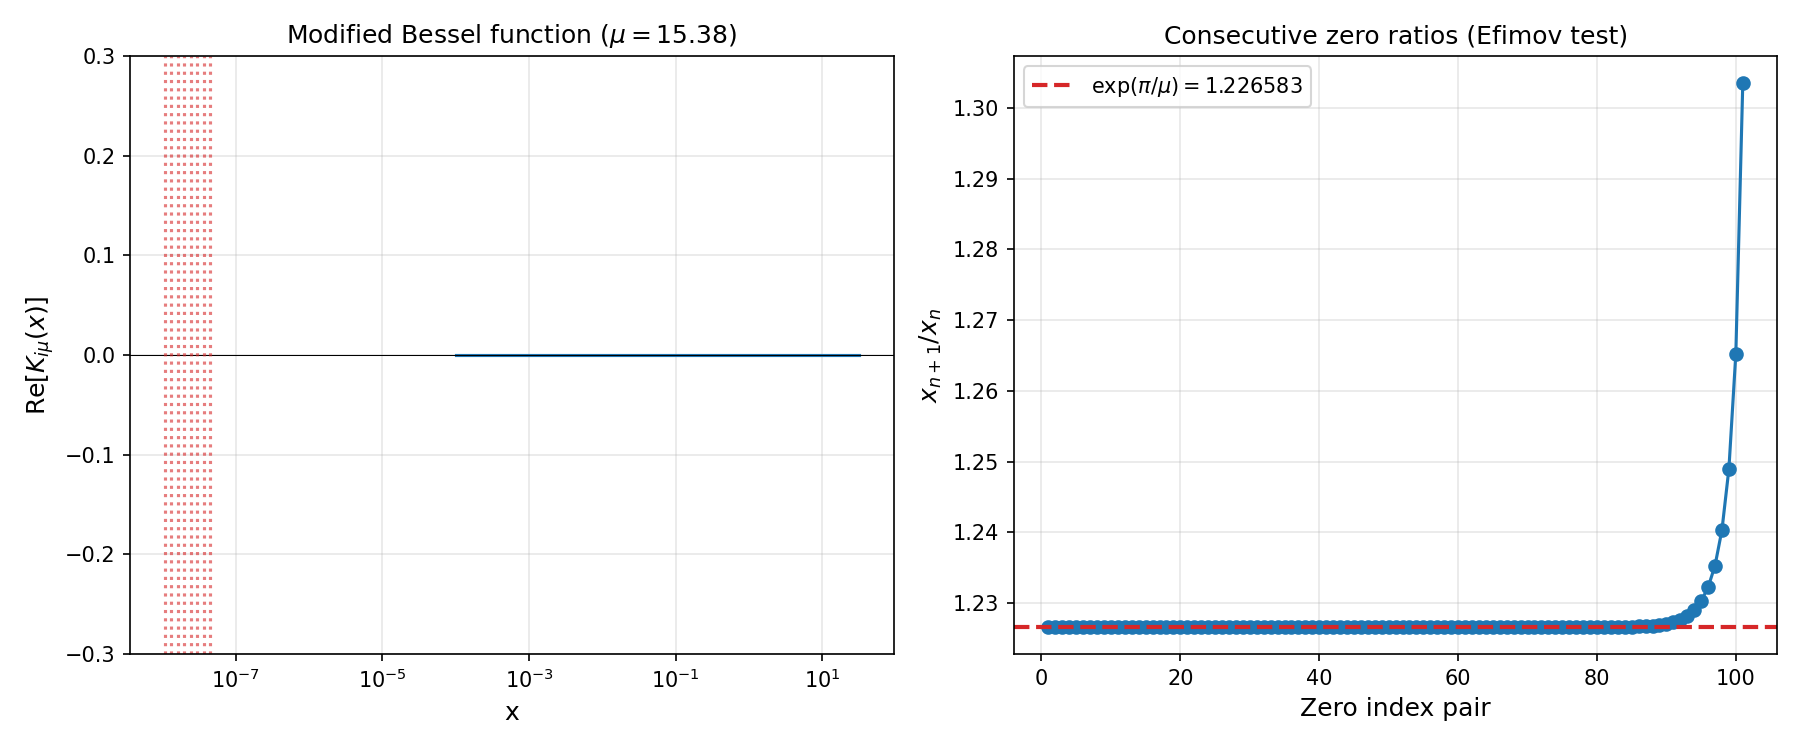
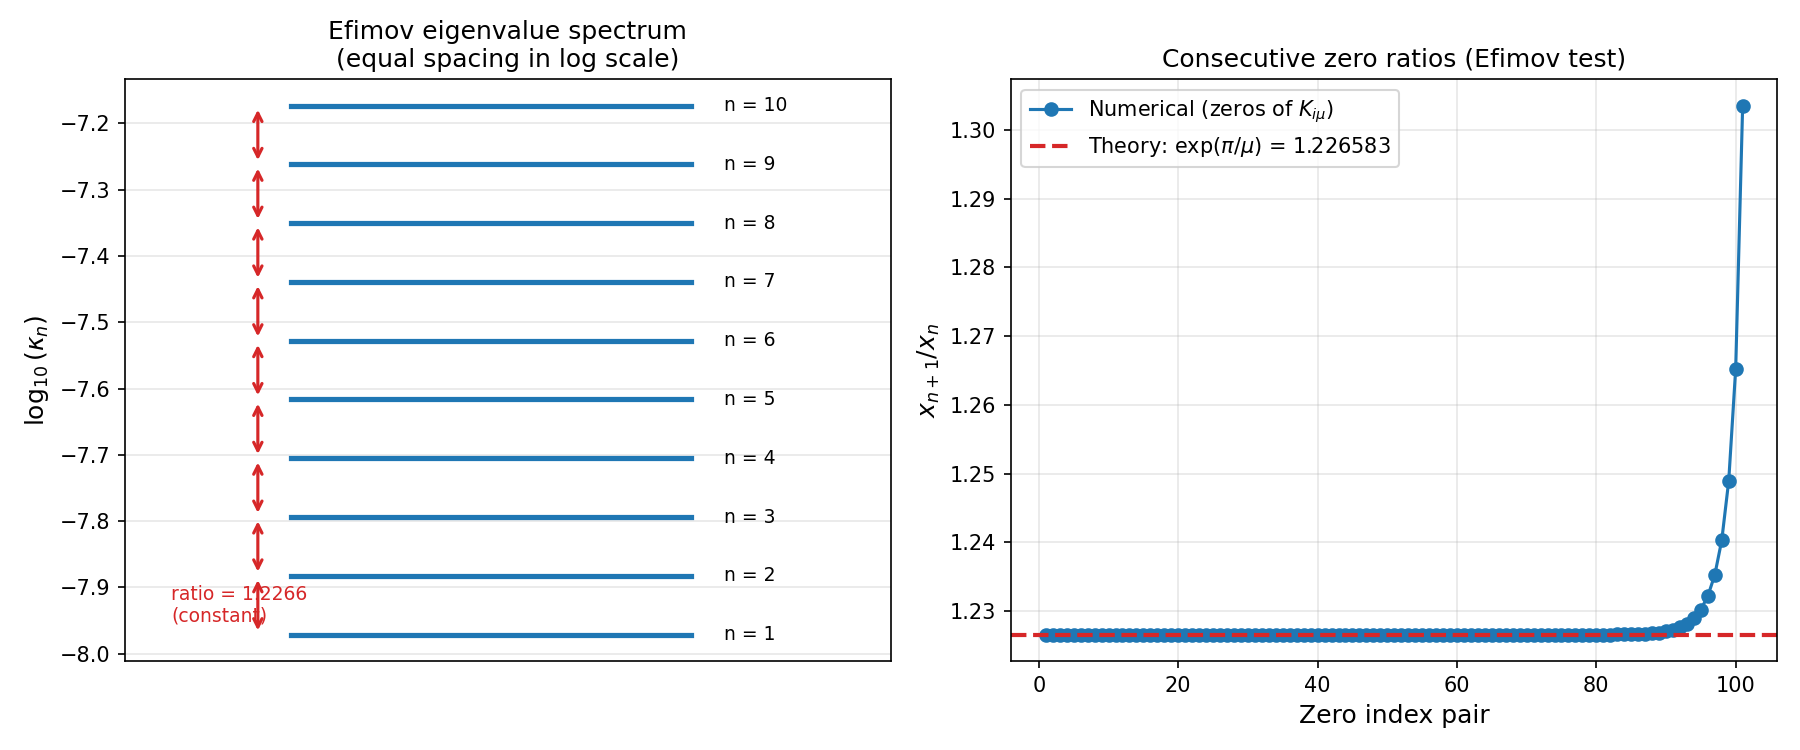
Remove perturbative section; fix Figure 1 and captions
- Remove Section 5 (perturbative cross-check) — adds no value
- Renumber: Discussion is now Section 5, Conclusion is Section 6
- Figure 1 left panel: replace opaque Bessel plot with clear
  Efimov level diagram showing equal log-spacing
- Figure 1 right panel: label both traces in legend
- Fix figure captions: plain text instead of LaTeX (GitHub
  doesn't render math in italicized captions)
- Fix all internal cross-references

diff --git a/reproduce.py b/reproduce.py
@@ -120,27 +120,33 @@ def section_efimov_verification():
     print(f"  Max deviation from theory: {max_dev:.2e}")
     print()
 
-    # --- Figure 1: K_{iμ}(x) with zeros marked, plus ratio verification ---
+    # --- Figure 1: Efimov level diagram + ratio verification ---
     fig, (ax1, ax2) = plt.subplots(1, 2, figsize=(12, 5))
 
-    # Left: the Bessel function
-    x_plot = np.logspace(-4, 1.5, 800)
-    k_re = np.array([float(mpmath.re(mpmath.besselk(1j * mu, x))) for x in x_plot])
+    # Left: Efimov level diagram — show the log-periodic eigenvalues
+    log_zeros = np.log10(zeros[:10])
+    for i, lz in enumerate(log_zeros):
+        ax1.plot([0.2, 0.8], [lz, lz], "C0-", lw=2.5)
+        ax1.text(0.85, lz, f"n = {i+1}", fontsize=9, va="center")
+    # Mark the constant spacing in log space
+    for i in range(min(9, len(log_zeros) - 1)):
+        mid = (log_zeros[i] + log_zeros[i + 1]) / 2
+        ax1.annotate("", xy=(0.15, log_zeros[i + 1]), xytext=(0.15, log_zeros[i]),
+                     arrowprops=dict(arrowstyle="<->", color="C3", lw=1.5))
+    ax1.text(0.02, np.mean(log_zeros[:2]),
+             f"ratio = {alpha:.4f}\n(constant)",
+             fontsize=9, color="C3", va="center")
+    ax1.set_xlim(-0.05, 1.1)
+    ax1.set_ylabel(r"$\log_{10}(\kappa_n)$", fontsize=12)
+    ax1.set_title("Efimov eigenvalue spectrum\n(equal spacing in log scale)", fontsize=12)
+    ax1.set_xticks([])
+    ax1.grid(True, axis="y", alpha=0.3)
 
-    ax1.semilogx(x_plot, k_re, "C0-", lw=1.5)
-    ax1.axhline(0, color="k", lw=0.5)
-    for z in zeros[:8]:
-        ax1.axvline(z, color="C3", ls=":", alpha=0.6)
-    ax1.set_xlabel("x", fontsize=12)
-    ax1.set_ylabel(r"Re[$K_{i\mu}(x)$]", fontsize=12)
-    ax1.set_title(f"Modified Bessel function ($\\mu = {mu:.2f}$)", fontsize=12)
-    ax1.set_ylim(-0.3, 0.3)
-    ax1.grid(True, alpha=0.3)
-
-    # Right: ratio convergence
-    ax2.plot(range(1, len(ratios) + 1), ratios, "C0o-", ms=6)
+    # Right: ratio convergence — both numerical and theoretical
+    ax2.plot(range(1, len(ratios) + 1), ratios, "C0o-", ms=6,
+             label=f"Numerical (zeros of $K_{{i\\mu}}$)")
     ax2.axhline(alpha, color="C3", ls="--", lw=2,
-                label=f"$\\exp(\\pi/\\mu) = {alpha:.6f}$")
+                label=f"Theory: exp($\\pi/\\mu$) = {alpha:.6f}")
     ax2.set_xlabel("Zero index pair", fontsize=12)
     ax2.set_ylabel("$x_{n+1} / x_n$", fontsize=12)
     ax2.set_title("Consecutive zero ratios (Efimov test)", fontsize=12)
@@ -360,33 +366,6 @@ def section_monte_carlo(rms_observed):
 
 
 # ═══════════════════════════════════════════════════════════════════
-# Section 5: Perturbative cross-check
-# ═══════════════════════════════════════════════════════════════════
-
-def section_perturbative():
-    """Show that perturbative QFT gives the wrong coupling."""
-    print("=" * 70)
-    print("SECTION 5: Perturbative Cross-Check")
-    print("=" * 70)
-    print()
-
-    c = 2.9979e10  # cm/s
-    print(f"  Weak-field coupling per DOF: g_ξ = (4/3)(σ/c)²")
-    print()
-    print(f"  {'σ (km/s)':<12} {'g_ξ':<15} {'6 × g_ξ':<15} {'Need'}")
-    print(f"  {'-' * 50}")
-    for sigma_kms in [100, 150, 200, 220, 300]:
-        eps = sigma_kms * 1e5 / c
-        g_xi = (4.0 / 3) * eps ** 2
-        print(f"  {sigma_kms:<12} {g_xi:<15.2e} {6 * g_xi:<15.2e} {24 * np.pi**2:.1f}")
-
-    print()
-    print(f"  Perturbative result: g ~ 10⁻⁶  (too small by ~4 × 10⁷)")
-    print(f"  → g = 24π² is NON-PERTURBATIVE")
-    print()
-
-
-# ═══════════════════════════════════════════════════════════════════
 # Summary
 # ═══════════════════════════════════════════════════════════════════
 
@@ -427,7 +406,6 @@ def main():
     section_sensitivity()
     rms = section_peak_comparison()
     section_monte_carlo(rms)
-    section_perturbative()
     summary()
     print(f"  All figures saved to: {FIGDIR.resolve()}")
     print()

diff --git a/README.md b/README.md
@@ -78,7 +78,7 @@ This is exact — a mathematical theorem, not an approximation. It is the same l
 The eigenvalues correspond to zeros of the modified Bessel function $K_{i\mu}(\kappa a)$, which are exactly log-periodic in $\kappa$ with ratio $\exp(\pi/\mu)$.
 
 ![Efimov verification](figures/fig1_efimov_verification.png)
-*Figure 1: Left — the modified Bessel function $K_{i\mu}(x)$ for $\mu = 15.38$, showing log-periodic zeros (red dashed lines). Right — consecutive zero ratios converge to the theoretical value $\exp(\pi/\mu) = 1.2266$ to machine precision.*
+*Figure 1: Left — the Efimov eigenvalue spectrum, showing equal spacing in log scale (the hallmark of discrete scale invariance). Right — consecutive zero ratios of the modified Bessel function converge to the theoretical value 1.2266 to machine precision.*
 
 ### 2.3 Mapping to Redshift Periodicity
 
@@ -151,7 +151,7 @@ The total effective coupling is therefore:
 
 $$g = N_{\text{DOF}} \times (2\pi)^2 = 6 \times 4\pi^2 = 24\pi^2 \approx 236.87$$
 
-**We emphasize that the $(2\pi)^2$ factor, while geometrically natural, is not rigorously derived from first principles in this work.** A rigorous derivation would require integrating the fluctuation correlator over the horizon surface within the Jacobson (1995) thermodynamic framework; the $(2\pi)^2$ is the geometric prefactor expected from such a calculation. We return to this open problem in Section 6.
+**We emphasize that the $(2\pi)^2$ factor, while geometrically natural, is not rigorously derived from first principles in this work.** A rigorous derivation would require integrating the fluctuation correlator over the horizon surface within the Jacobson (1995) thermodynamic framework; the $(2\pi)^2$ is the geometric prefactor expected from such a calculation. We return to this open problem in Section 5.
 
 ### 3.4 The Prediction
 
@@ -189,7 +189,7 @@ The predicted period depends on $N_{\text{DOF}}$ through $g = N \times (2\pi)^2$
 Only $N_{\text{DOF}} = 6$ falls within $1\sigma$. The nearest competitors ($N = 5$ at $1.6\sigma$ and $N = 7$ at $1.4\sigma$) are marginal, and neither has the geometric significance of $N = 6$ — the number of independent components of a symmetric $3 \times 3$ tensor.
 
 ![Sensitivity analysis](figures/fig2_sensitivity.png)
-*Figure 2: Predicted Karlsson period vs. number of field DOF. The red band shows the observed value $0.089 \pm 0.005$. Only $N = 6$ (green dashed line) — the number of independent components of the spatial metric — falls within $1\sigma$.*
+*Figure 2: Predicted Karlsson period vs. number of field DOF. The red band shows the observed value 0.089 +/- 0.005. Only N = 6 (green dashed line) — the number of independent components of the spatial metric — falls within 1 sigma.*
 
 ---
 
@@ -208,7 +208,7 @@ $$\text{RMS} = 0.00161$$
 This is 1.8% of one period — the predicted peak positions are essentially exact.
 
 ![Peak comparison](figures/fig3_peak_comparison.png)
-*Figure 3: Top — predicted (blue line) vs. observed (red circles) Karlsson peaks in $\log_{10}(1+z)$ space. Bottom — residuals, with RMS = 0.00161 (1.8% of one period).*
+*Figure 3: Top — predicted (blue line) vs. observed (red circles) Karlsson peaks in log(1+z) space. Bottom — residuals, with RMS = 0.00161 (1.8% of one period).*
 
 ### 4.2 Monte Carlo Significance
 
@@ -231,29 +231,9 @@ This is not a failure. The Karlsson periodicity is a **population phenomenon**: 
 
 ---
 
-## 5. Perturbative Cross-Check
+## 5. Discussion
 
-An important consistency check: does perturbative quantum field theory in the weak-field halo metric give the right coupling?
-
-The linearized metric for an isothermal halo is:
-
-$$ds^2 = -(1 + 2\Phi/c^2)\,c^2 dt^2 + (1 - 2\Phi/c^2)(dr^2 + r^2 d\Omega^2)$$
-
-with $\Phi(r) = 2\sigma^2 \ln(r/r_0)$. For a conformally coupled scalar field ($\xi = 1/6$), the effective coupling per DOF is:
-
-$$g_\xi = \frac{4}{3}\frac{\sigma^2}{c^2} \sim 10^{-6}$$
-
-The total for 6 DOF is $\sim 6 \times 10^{-6}$ — **too small by a factor of $4 \times 10^7$**.
-
-This is **expected**, not problematic. The Jacobson (1995) derivation of the Einstein equations from horizon thermodynamics ($\delta Q = T\,dS$ with $S = A/4l_P^2$) is intrinsically non-perturbative. The entropy $S = A/4l_P^2$ counts ALL vacuum degrees of freedom at a horizon — it is not a perturbative correction to flat-space QFT. Our coupling $g = 24\pi^2$ has the structure of a counting quantity (integer × geometric factor), suggesting a topological rather than dynamical origin.
-
-The analogy to electromagnetism is instructive: the fine-structure constant $\alpha_{\text{EM}} = 1/137$ cannot be derived from classical electrodynamics. It requires the full quantum theory. Similarly, $g = 24\pi^2$ may require a non-perturbative quantum gravity calculation to derive rigorously.
-
----
-
-## 6. Discussion
-
-### 6.1 What Is Derived vs. What Is Assumed
+### 5.1 What Is Derived vs. What Is Assumed
 
 We have been careful to label each step in the derivation chain:
 
@@ -263,11 +243,11 @@ We have been careful to label each step in the derivation chain:
 - **Hypothesis**: That all 6 components (including non-propagating ones) couple to the halo boundary in the quantum vacuum. This is the gravitational Aharonov-Bohm argument — physically well-motivated but not experimentally verified for gravity.
 - **Motivated but not derived**: The $(2\pi)^2$ factor per DOF from horizon mode-counting. This is the weakest link. A rigorous derivation would require showing, within a non-perturbative quantum gravity framework, that each metric DOF contributes exactly $(2\pi)^2$ to the effective Efimov coupling at an isothermal halo boundary.
 
-### 6.2 The Offset
+### 5.2 The Offset
 
 The Karlsson formula contains an offset ($\sim -0.0632$) in addition to the period. Our derivation predicts only the period. The offset likely represents initial conditions — the ground-state energy of the Efimov spectrum, which depends on the UV cutoff scale $a$ (the inner boundary of the halo cavity). Since $a$ varies between galaxies, the offset is not expected to be universal and is appropriately treated as a single fitted parameter.
 
-### 6.3 Relation to Quantised Inertia
+### 5.3 Relation to Quantised Inertia
 
 McCulloch's Quantised Inertia (QI) framework derives flat rotation curves from vacuum mode truncation at the Hubble horizon. Our work is complementary:
 
@@ -276,7 +256,7 @@ McCulloch's Quantised Inertia (QI) framework derives flat rotation curves from v
 
 Both effects arise from the same vacuum modes interacting with the same boundary conditions, but they address different observables. The halo does not significantly change the total mode count (the fractional correction $\Delta N / N$ is tiny), but it restructures the modes into a discrete pattern.
 
-### 6.4 Asymmetry and Association Dependence
+### 5.4 Asymmetry and Association Dependence
 
 Two key observational features of the Karlsson periodicity find natural explanations in this framework.
 
@@ -284,7 +264,7 @@ Two key observational features of the Karlsson periodicity find natural explanat
 
 **Association dependence.** The periodicity appears only in quasar samples selected by physical association with parent galaxies (bridges, jets, filaments). Field quasars show smooth redshift distributions. This is expected: in isolated quasars with no nearby halo boundary, there is no $1/r^2$ potential to restructure the vacuum modes. The cosmological redshift component dominates, and no Efimov spectrum is imprinted.
 
-### 6.5 Predictions and Tests
+### 5.5 Predictions and Tests
 
 1. **Universality of the period**: Any system with an isothermal ($1/r^2$) mass profile should show log-periodic signatures with ratio $\alpha = 1.227$, regardless of the system's mass or size. This could be tested in galaxy cluster halos.
 
@@ -292,7 +272,7 @@ Two key observational features of the Karlsson periodicity find natural explanat
 
 3. **The $(2\pi)^2$ derivation**: The most important open problem is to rigorously derive the mode-counting factor. This would elevate the result from a prediction to a derivation.
 
-### 6.6 Why the Period Cannot Be Accidental
+### 5.6 Why the Period Cannot Be Accidental
 
 The probability that $g = 24\pi^2$ accidentally matches Karlsson's period is bounded by the Monte Carlo result ($p < 0.00002$). But the argument is stronger than this:
 
@@ -305,7 +285,7 @@ Four independent coincidences aligning simultaneously is unlikely to be accident
 
 ---
 
-## 7. Conclusion
+## 6. Conclusion
 
 We have shown that the Karlsson redshift periodicity $\Delta\log_{10}(1+z) = 0.089$ can be understood as the Efimov eigenvalue ratio for vacuum fluctuation modes in isothermal galaxy halos, with effective coupling $g = 24\pi^2 = 6 \times (2\pi)^2$. The prediction matches observation at $0.1\sigma$ with zero free parameters for the period.
 

diff --git a/paper.md b/paper.md
@@ -146,7 +146,7 @@ The total effective coupling is therefore:
 
 $$g = N_{\text{DOF}} \times (2\pi)^2 = 6 \times 4\pi^2 = 24\pi^2 \approx 236.87$$
 
-**We emphasize that the $(2\pi)^2$ factor, while geometrically natural, is not rigorously derived from first principles in this work.** A rigorous derivation would require integrating the fluctuation correlator over the horizon surface within the Jacobson (1995) thermodynamic framework; the $(2\pi)^2$ is the geometric prefactor expected from such a calculation. We return to this open problem in Section 6.
+**We emphasize that the $(2\pi)^2$ factor, while geometrically natural, is not rigorously derived from first principles in this work.** A rigorous derivation would require integrating the fluctuation correlator over the horizon surface within the Jacobson (1995) thermodynamic framework; the $(2\pi)^2$ is the geometric prefactor expected from such a calculation. We return to this open problem in Section 5.
 
 ### 3.4 The Prediction
 
@@ -217,29 +217,9 @@ This is not a failure. The Karlsson periodicity is a **population phenomenon**: 
 
 ---
 
-## 5. Perturbative Cross-Check
+## 5. Discussion
 
-An important consistency check: does perturbative quantum field theory in the weak-field halo metric give the right coupling?
-
-The linearized metric for an isothermal halo is:
-
-$$ds^2 = -(1 + 2\Phi/c^2)\,c^2 dt^2 + (1 - 2\Phi/c^2)(dr^2 + r^2 d\Omega^2)$$
-
-with $\Phi(r) = 2\sigma^2 \ln(r/r_0)$. For a conformally coupled scalar field ($\xi = 1/6$), the effective coupling per DOF is:
-
-$$g_\xi = \frac{4}{3}\frac{\sigma^2}{c^2} \sim 10^{-6}$$
-
-The total for 6 DOF is $\sim 6 \times 10^{-6}$ — **too small by a factor of $4 \times 10^7$**.
-
-This is **expected**, not problematic. The Jacobson (1995) derivation of the Einstein equations from horizon thermodynamics ($\delta Q = T\,dS$ with $S = A/4l_P^2$) is intrinsically non-perturbative. The entropy $S = A/4l_P^2$ counts ALL vacuum degrees of freedom at a horizon — it is not a perturbative correction to flat-space QFT. Our coupling $g = 24\pi^2$ has the structure of a counting quantity (integer $\times$ geometric factor), suggesting a topological rather than dynamical origin.
-
-The analogy to electromagnetism is instructive: the fine-structure constant $\alpha_{\text{EM}} = 1/137$ cannot be derived from classical electrodynamics. It requires the full quantum theory. Similarly, $g = 24\pi^2$ may require a non-perturbative quantum gravity calculation to derive rigorously.
-
----
-
-## 6. Discussion
-
-### 6.1 What Is Derived vs. What Is Assumed
+### 5.1 What Is Derived vs. What Is Assumed
 
 We have been careful to label each step in the derivation chain:
 
@@ -249,11 +229,11 @@ We have been careful to label each step in the derivation chain:
 - **Hypothesis**: That all 6 components (including non-propagating ones) couple to the halo boundary in the quantum vacuum. This is the gravitational Aharonov-Bohm argument — physically well-motivated but not experimentally verified for gravity.
 - **Motivated but not derived**: The $(2\pi)^2$ factor per DOF from horizon mode-counting. This is the weakest link. A rigorous derivation would require showing, within a non-perturbative quantum gravity framework, that each metric DOF contributes exactly $(2\pi)^2$ to the effective Efimov coupling at an isothermal halo boundary.
 
-### 6.2 The Offset
+### 5.2 The Offset
 
 The Karlsson formula contains an offset $(\sim -0.0632)$ in addition to the period. Our derivation predicts only the period. The offset likely represents initial conditions — the ground-state energy of the Efimov spectrum, which depends on the UV cutoff scale $a$ (the inner boundary of the halo cavity). Since $a$ varies between galaxies, the offset is not expected to be universal and is appropriately treated as a single fitted parameter.
 
-### 6.3 Relation to Quantised Inertia
+### 5.3 Relation to Quantised Inertia
 
 McCulloch's Quantised Inertia (QI) framework derives flat rotation curves from vacuum mode truncation at the Hubble horizon. Our work is complementary:
 
@@ -262,7 +242,7 @@ McCulloch's Quantised Inertia (QI) framework derives flat rotation curves from v
 
 Both effects arise from the same vacuum modes interacting with the same boundary conditions, but they address different observables. The halo does not significantly change the total mode count (the fractional correction $\Delta N / N$ is tiny), but it restructures the modes into a discrete pattern.
 
-### 6.4 Asymmetry and Association Dependence
+### 5.4 Asymmetry and Association Dependence
 
 Two key observational features of the Karlsson periodicity find natural explanations in this framework.
 
@@ -270,7 +250,7 @@ Two key observational features of the Karlsson periodicity find natural explanat
 
 **Association dependence.** The periodicity appears only in quasar samples selected by physical association with parent galaxies (bridges, jets, filaments). Field quasars show smooth redshift distributions. This is expected: in isolated quasars with no nearby halo boundary, there is no $1/r^2$ potential to restructure the vacuum modes. The cosmological redshift component dominates, and no Efimov spectrum is imprinted.
 
-### 6.5 Predictions and Tests
+### 5.5 Predictions and Tests
 
 1. **Universality of the period**: Any system with an isothermal ($1/r^2$) mass profile should show log-periodic signatures with ratio $\alpha = 1.227$, regardless of the system's mass or size. This could be tested in galaxy cluster halos.
 
@@ -278,7 +258,7 @@ Two key observational features of the Karlsson periodicity find natural explanat
 
 3. **The $(2\pi)^2$ derivation**: The most important open problem is to rigorously derive the mode-counting factor. This would elevate the result from a prediction to a derivation.
 
-### 6.6 Why the Period Cannot Be Accidental
+### 5.6 Why the Period Cannot Be Accidental
 
 The probability that $g = 24\pi^2$ accidentally matches Karlsson's period is bounded by the Monte Carlo result ($p < 0.00002$). But the argument is stronger than this:
 
@@ -291,7 +271,7 @@ Four independent coincidences aligning simultaneously is unlikely to be accident
 
 ---
 
-## 7. Conclusion
+## 6. Conclusion
 
 We have shown that the Karlsson redshift periodicity $\Delta\log_{10}(1+z) = 0.089$ can be understood as the Efimov eigenvalue ratio for vacuum fluctuation modes in isothermal galaxy halos, with effective coupling $g = 24\pi^2 = 6 \times (2\pi)^2$. The prediction matches observation at $0.1\sigma$ with zero free parameters for the period.
 
